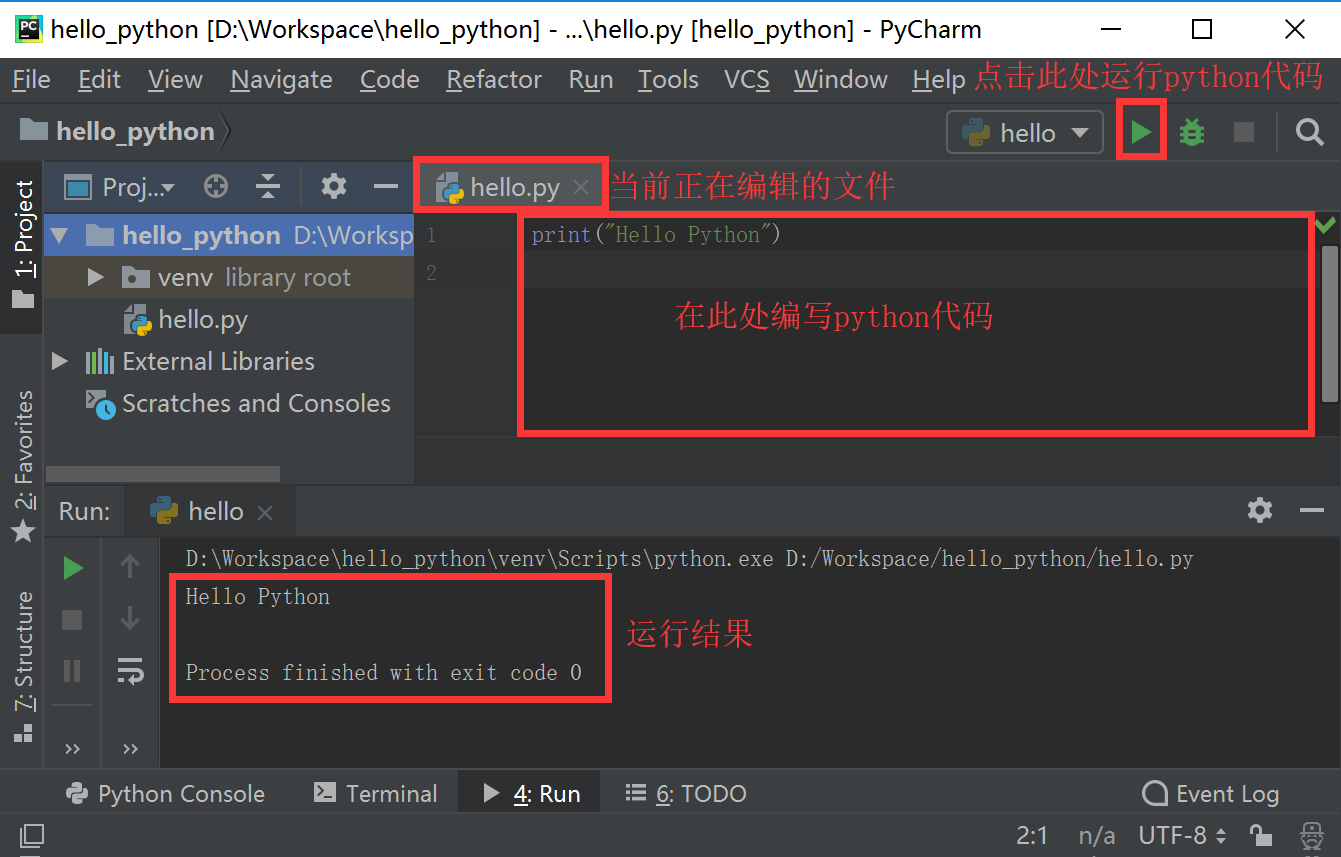
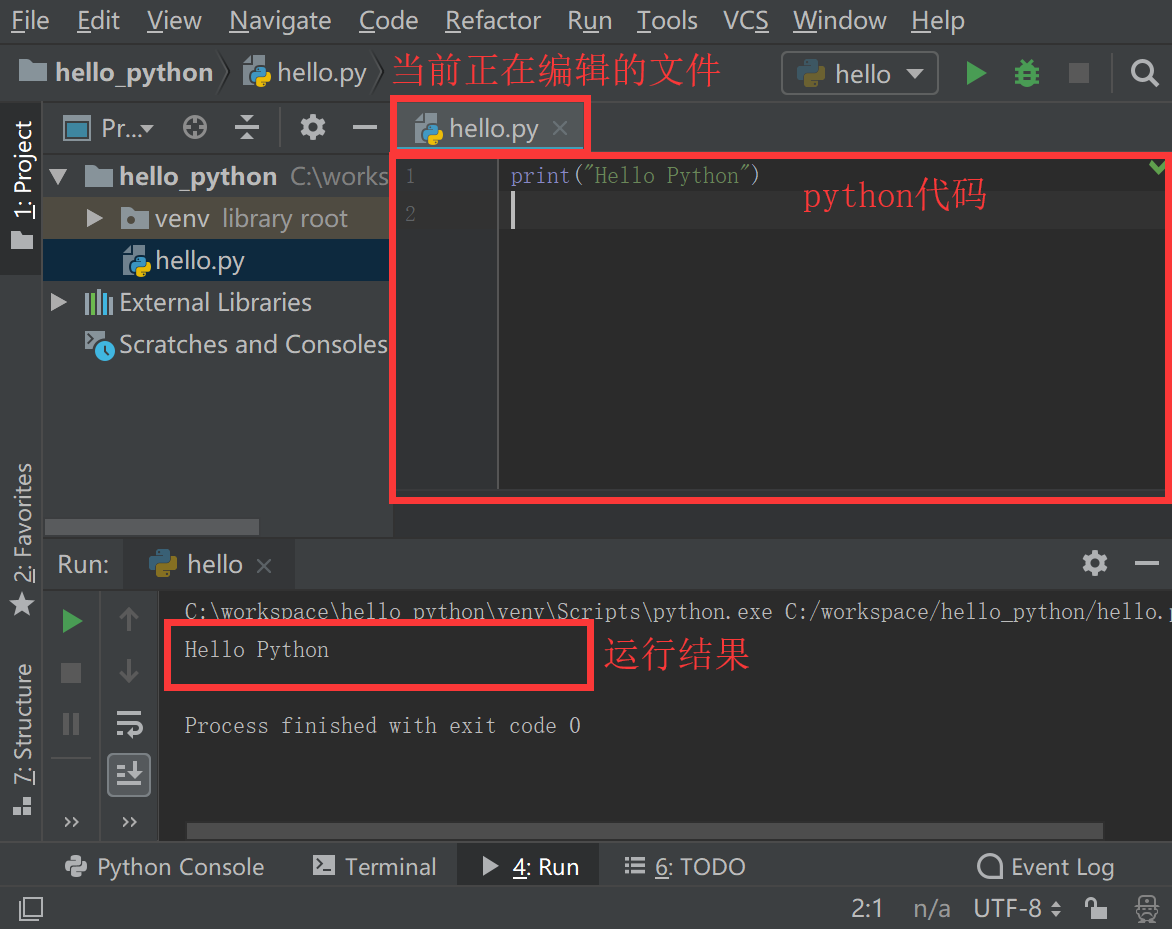
update install-pycharm

diff --git a/materials/exper/install-pycharm/README.md b/materials/exper/install-pycharm/README.md
@@ -66,6 +66,7 @@
 <img src="./image/17.png" height="400" />
 <img src="./image/18.png" height="150" />
 
-#### 14. 创建Python文件之后，便可在其中编写Python代码，并点击运行按钮，并在主窗口下方的`Run`标签窗口中看到运行结果。
+#### 14. 创建Python文件之后，便可在其中编写Python代码，并选中并右键点击Python代码所在.py文件，选择Run运行，在主窗口下方的`Run`标签窗口中看到运行结果。
 
 <img src="./image/19.png" height="400" />
+<img src="./image/20.png" height="400" />
